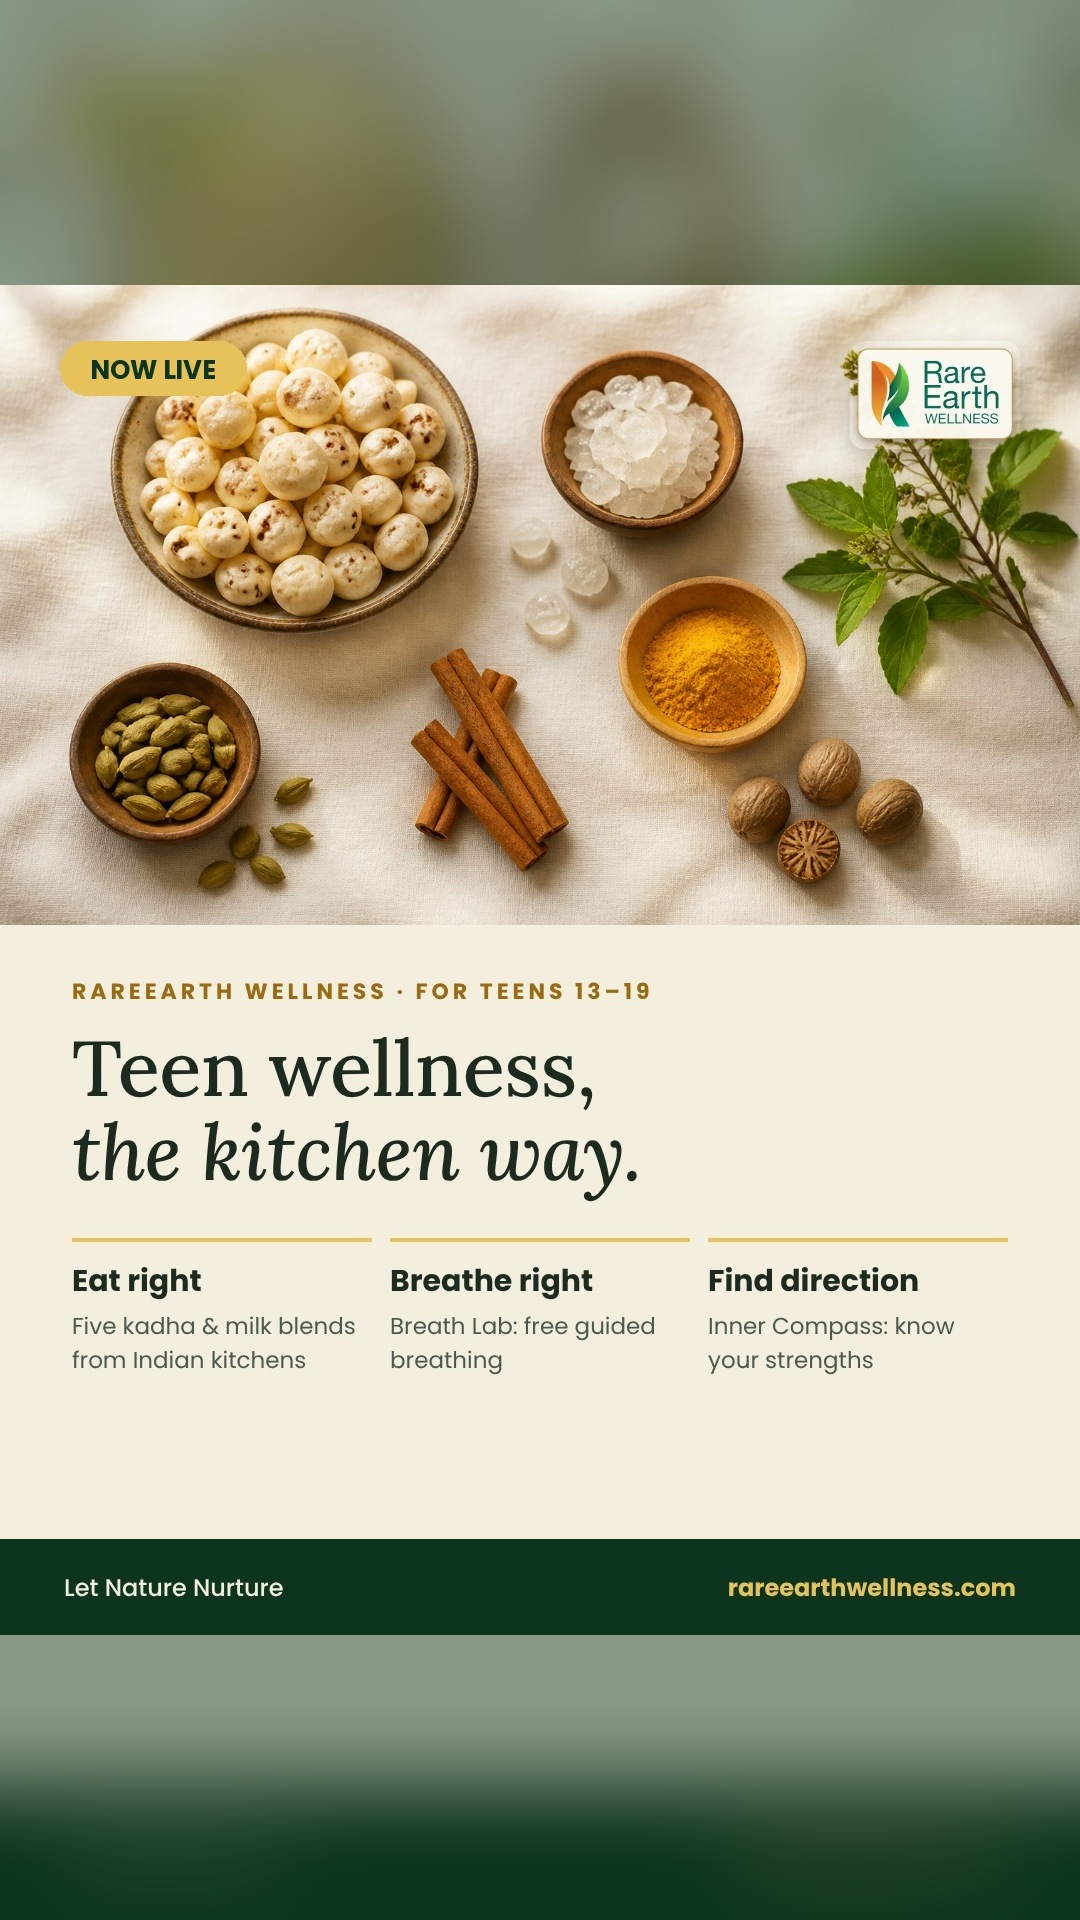
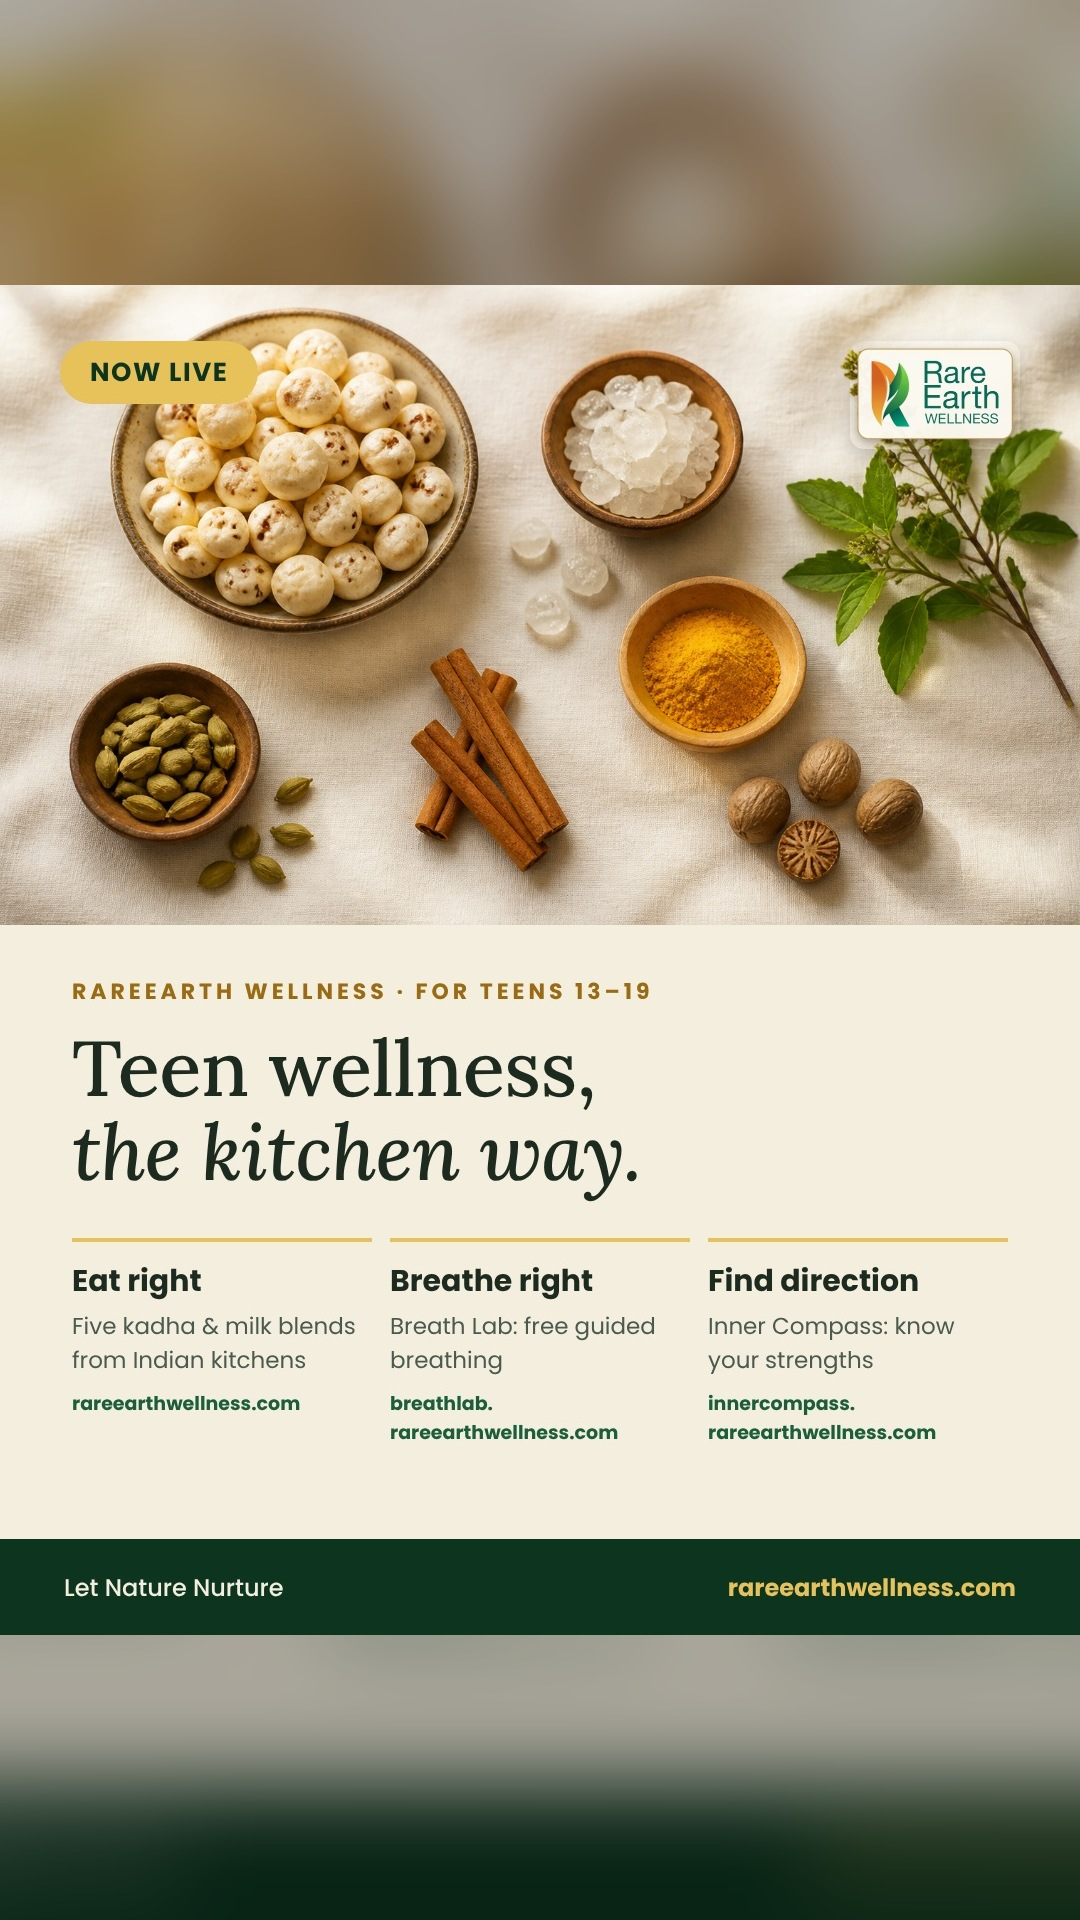
L3 review (temporary)
Claude-Session: https://claude.ai/code/session_016rkx1DK1G2d91WsEwkoYA4

diff --git a/tmpxfer/review-L3.html b/tmpxfer/review-L3.html
@@ -1,0 +1,5 @@
+<!doctype html><html><head><meta charset="utf-8"><title>Review: L3 launch image</title><style>body{margin:0;background:#1d2a20;font-family:system-ui;color:#f4eedf;padding:24px}h1{font-weight:500;margin:0 0 6px}p{margin:0 0 20px;color:#cfe0d2}.row{display:flex;gap:24px;align-items:flex-start;flex-wrap:wrap}.row div{font-size:14px;color:#cfe0d2}.row img{display:block;border-radius:10px;margin-top:6px}</style></head><body>
+<h1>3 of 8 · L3 · Launch single image</h1>
+<p>Same picture in two shapes: feed (4:5) and Stories/Reels (9:16). Each pillar now shows its own link.</p>
+<div class="row"><div>Feed 4:5<img src="ad-L3-4x5.jpg?v=2" style="height:620px"></div><div>Stories 9:16<img src="ad-L3-9x16.jpg?v=2" style="height:620px"></div></div>
+</body></html>
